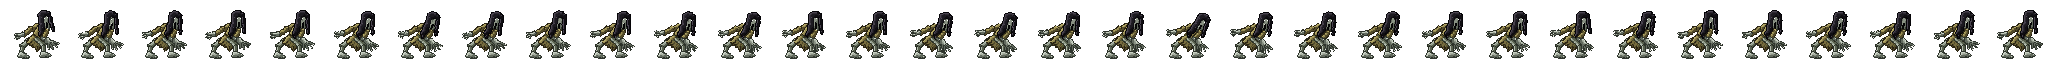
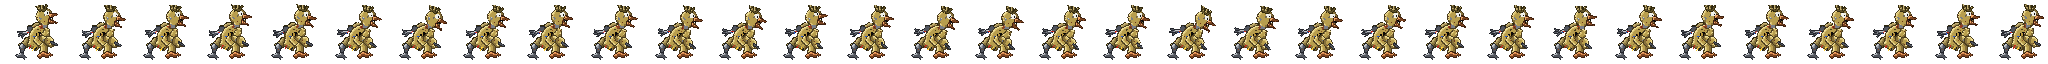
LAST SEEN: new side special PLEASE HELP ME (she clings on), and SEEN is now a scrapped canary animatronic with her inside
Claude-Session: https://claude.ai/code/session_01QrPMowW61BtpNneRMoKnVz

diff --git a/src/fighters/lastSeen.js b/src/fighters/lastSeen.js
@@ -1,13 +1,14 @@
 // LAST SEEN: a TEST FIGHTER out of analog horror - a woman who went missing, and what came back. She starts out
 // frail: light, weak, easy to launch. Her SIGHTINGS meter fills as she deals and takes damage; when it's full she
-// turns into SEEN - grey, too thin, jaw hanging open, crawling on all fours - and stays that way until she's KO'd:
-// heavy, fast, and brutal. Data only. Art: tools/sprites/last_seen_draw.py + last_seen_moves.py. Code: fighterLastSeen.js.
+// turns into SEEN - an old canary mascot animatronic, scrapped and rotting, with her inside it - and stays that way
+// until she's KO'd: heavy, fast, and brutal. Data only. Art: tools/sprites/last_seen_draw.py + last_seen_moves.py.
+// Code: fighterLastSeen.js.
 import { DEFAULT_GRAB } from './common.js';
 import { LS_MOVES } from './lsMoves.js';
 import { LS_WRONG_MOVES } from './lsWrongMoves.js';
 
 export const PAL_RAIN = { outline: 0x0e0a08, deep: 0x8a6a22, mid: 0xc8a240, light: 0xe8c86a, core: 0xfff6dc, shade: 0x2a2a30, void: 0x08080a };
-export const PAL_WRONG = { outline: 0x060508, deep: 0x2a2e28, mid: 0x5a6258, light: 0xb4bcb0, core: 0xffffff, shade: 0x141216, void: 0x020203 };
+export const PAL_WRONG = { outline: 0x24262c, deep: 0x86703a, mid: 0xb89e4e, light: 0xf0e09a, core: 0xffffff, shade: 0x2a2620, void: 0x0a0806 };
 
 const COMMON = {
   id: 'last-seen',
@@ -60,9 +61,17 @@ export const LAST_SEEN = {
     // FLYER (neutral): throws a missing poster of herself. Whoever it hits is posted MISSING: they take 20% more
     // damage for a few seconds
     neutralB: { frames: 30, spawnAt: 12, flyer: { speed: 4.6, life: 70, flutter: 5, mark: 240, hit: { dmg: 4, angle: 40, base: 2.4, growth: 1.6 } } },
-    // STUMBLE (side): a desperate lunge forward - once per jump
-    sideB: { frames: 34, landLag: 10, fx: 'thrust', dive: { from: 9, to: 22, vx: 6.6, vy: -2.4 },
-      hits: [{ from: 9, to: 20, box: [-4, -44, 42, 34], dmg: 6, angle: 40, base: 3.0, growth: 4.2 }] },
+    // PLEASE HELP ME (side): she lunges, one hand out, a long way forward - once per jump. If she catches someone
+    // she CLINGS to them, begging, and they can't get away: little hits while her SIGHTINGS fill fast, then she
+    // shoves them off. 2 + 4 x 2 + 5 = 15%, and a big chunk of her meter.
+    sideB: { frames: 34, landLag: 10, dive: { from: 8, to: 22, vx: 7.0, vy: -2.2 },
+      hits: [{ from: 8, to: 22, box: [-2, -48, 42, 36], dmg: 2, angle: 0, base: 0.4, growth: 0, stun: 30 }],
+      cling: {
+        frames: 54, every: 12,                        // how long she hangs on, and how often she squeezes
+        tick: { dmg: 2, angle: 90, base: 0.3, growth: 0, stun: 24 },
+        fill: 8,                                      // SIGHTINGS for each squeeze (on top of the damage)
+        shove: { dmg: 5, angle: 40, base: 4.4, growth: 3.6 },
+      } },
     // A FRIGHTENED JUMP (up)
     upb: { frames: 40, riseAt: 8, riseV: -14, pushX: 2.0, drift: 3.4, hits: [{ from: 8, to: 14, box: [-20, -56, 40, 58], dmg: 4, angle: 80, base: 2.6, growth: 2.4 }] },
     // HIDE (down): curls up with her arms over her head - nothing touches her for a moment
@@ -93,16 +102,16 @@ export const SEEN = {
   name: 'SEEN',
   sheets: { idle: 'ls_wrong_idle', run: 'ls_wrong_run', jump: 'ls_wrong_jump', fall: 'ls_wrong_fall', moves: 'ls_wrong_moves' },
   moveAnims: LS_WRONG_MOVES,
-  fxColor: 0xb4bcb0,
+  fxColor: 0xd8c070,
   pal: PAL_WRONG,
   wrong: true,                      // fighterLastSeen.js: its drips, smears and glitches
-  hitVfx: { shape: 'wrong', colors: [0x141216, 0x5a6258, 0xb4bcb0], n: 8 },   // its hits, whatever the costume
+  hitVfx: { shape: 'scrap', colors: [0xffd060, 0xffa030, 0xffffff], n: 8 },   // its hits, whatever the costume: sparks, fur, oil
   weight: 1.14,                     // heavy now
   takenMult: 0.85,                  // and tougher: 15% less damage taken
   walkSpeed: 3.6, runAccel: 0.8, groundFriction: 0.5,
   airSpeed: 3.2, airAccel: 0.3, airFriction: 0.04,
   jumpV: -10.4, shortHopV: -7.0, doubleJumpV: -10.0,
-  taunt: { name: 'LOOK AT ME', frames: 84, lines: ['...', 'LOOK AT ME.', 'YOU FOUND ME.'], sounds: [[40, 'glitch', 0.6, 0.5], [46, 'curse', 0.4, 0.6]] },
+  taunt: { name: 'HAPPY BIRTHDAY', frames: 84, lines: ['HAPPY BIRTHDAY!', "L-L-LET'S PLAY!", '...HELP ME.'], sounds: [[2, 'buzz', 0.4, 0.7], [40, 'glitch', 0.6, 0.5], [46, 'buzz', 0.5, 1.3]] },
   moves: {
     ...DEFAULT_GRAB,
     ...Object.fromEntries(NORMALS.map((n) => [n, wrongMove(LAST_SEEN.moves[n])])),

diff --git a/src/fighters/fighterLastSeen.js b/src/fighters/fighterLastSeen.js
@@ -42,7 +42,7 @@ export class FighterLastSeen {
     this.sheets = skinSheets(this.scene, this.def, this.skin);
     this.pal = this.def.pal;
     sfx('ko', 0.7, 0.4); sfx('bighit', 0.9, 0.5); m.shake(14, 14);
-    m.popText(this, 'SEEN', '#ff3a2a');
+    m.popText(this, 'SEEN', '#ff3a2a'); sfx('buzz', 0.7, 0.6);
     for (let i = 0; i < 24; i++) {                                    // posters torn off her and scattered
       const a = Math.random() * Math.PI * 2, sp = 2 + Math.random() * 4;
       m.particles.push({ shape: 'paper', x: this.x, y: this.y - 30, vx: Math.cos(a) * sp, vy: Math.sin(a) * sp - 1, life: 40 + Math.random() * 20, color: i % 3 ? 0xece6d4 : 0xc8281e, ang: Math.random() * 6, spin: 0.3, drag: 0.95, grav: 0.06 });
@@ -52,6 +52,28 @@ export class FighterLastSeen {
   revertLastSeen() {
     if (this.baseDef) { this.def = this.baseDef; this.sheets = this.baseSheets; this.pal = this.basePal; this.baseDef = null; }
     this.sightings = 0; this.wantTurn = false;
+  }
+
+  // ---- PLEASE HELP ME (side special): she caught someone - she clings on, begging, then shoves them off
+  startCling(t) {
+    this.clingTo = t; this.setState('cling'); this.vx = this.vy = this.lx = this.ly = 0;
+    this.match.popText(this, ['PLEASE HELP ME', 'DID YOU SEE IT?', "DON'T LEAVE ME"][Math.floor(Math.random() * 3)], '#e8c86a');
+    sfx('dodge', 0.5, 1.4);
+  }
+  st_cling() {
+    const C = this.def.moves.sideB.cling, t = this.clingTo, m = this.match;
+    if (!C || !t || !t.alive || t.state === 'respawn') { this.clingTo = null; this.setState(this.grounded ? 'idle' : 'air'); return; }
+    this.x = t.x - this.facing * 12; this.y = t.y; this.vx = this.vy = 0; this.grounded = t.grounded; this.platform = t.platform;
+    t.vx = t.vy = t.lx = t.ly = 0;
+    if (t.state === 'hitstun') t.hitstun = Math.max(t.hitstun, 6);
+    if (this.t > 1 && this.t % C.every === 0 && this.t < C.frames) {
+      m.applyHit(t, { h: C.tick, owner: this, facing: this.facing, id: 'cling' + this.slot + ':' + this.t + ':' + this.age, pillar: true }, this.x);
+      this.addSightings(C.fill); sfx('hit', 0.3, 1.3);
+    }
+    if (this.t >= C.frames) {
+      m.applyHit(t, { h: C.shove, owner: this, facing: this.facing, id: 'clings' + this.slot + ':' + this.age }, this.x);
+      this.clingTo = null; this.vx = -this.facing * 2; this.vy = -3; this.grounded = false; this.platform = null; this.setState('air');
+    }
   }
 
   // ---- I SEE IT TOO (her Limit): a scream that knocks everyone near her away, then she turns
@@ -121,7 +143,9 @@ export class FighterLastSeen {
   // ---- SEEN: dark drips falling off her, a smear behind her when she moves, now and then she skips like bad footage
   seenTick() {
     const m = this.match, R = Math.random;
-    if (this.anim % 5 === 0) m.particles.push({ x: this.x + (R() - 0.5) * 18, y: this.y - R() * 40, vx: 0, vy: 0.6, life: 20, color: R() < 0.5 ? 0x141216 : 0x2a2e28, size: 2, grav: 0.12 });
+    if (this.anim % 6 === 0) m.particles.push({ x: this.x + (R() - 0.5) * 18, y: this.y - R() * 40, vx: 0, vy: 0.6, life: 20, color: R() < 0.5 ? 0x141216 : 0x3a2a14, size: 2, grav: 0.12 });   // oil dripping out of it
+    if ((this.anim * 7) % 61 < 2) { for (let i = 0; i < 4; i++) { const a = -Math.PI / 2 + (R() - 0.5) * 2; m.particles.push({ shape: 'shard', x: this.x + (R() - 0.5) * 16, y: this.y - 20 - R() * 24, vx: Math.cos(a) * 2.5, vy: Math.sin(a) * 2.5, life: 10, color: i % 2 ? 0xffd060 : 0xffffff, drag: 0.92, grav: 0.2, ang: a }); } if (this.anim % 3 === 0) sfx('buzz', 0.12, 2); }   // a short in its wiring
+    if (this.anim % 47 === 0) m.particles.push({ shape: 'pixel2', x: this.x + (R() - 0.5) * 20, y: this.y - 30 - R() * 20, vx: (R() - 0.5), vy: 0.4, life: 40, color: 0xd8c070, grav: 0.03, drag: 0.98 });   // a tuft of fur falling off
     if (Math.abs(this.vx) > 2.5 && this.anim % 2 === 0) m.particles.push({ shape: 'smoke', x: this.x - Math.sign(this.vx) * 6, y: this.y - 14 - R() * 20, vx: 0, vy: 0, life: 16, maxLife: 16, r: 4, color: 0x141216, grav: 0 });
   }
   drawSeen(g, spr) {

diff --git a/src/scenes/MatchScene.js b/src/scenes/MatchScene.js
@@ -313,7 +313,8 @@ export class MatchScene extends Phaser.Scene {
     if (t.def.beat) t.dropStreak();
     const dmg = Math.max(1, Math.round((h.dmg || 0) * (owner ? owner.dmgMult : 1) * t.dmgTakenMult * (beat ? beat.dmg : 1)));
     if (beat) owner.beatLanded(t, hb);
-    if (owner && !hb.projectile && owner.state === 'attack' && owner.move && owner.move.dive && owner.move.dive.bounce) owner.diveBounce = true;   // NU's Stage Dive: bounce off them
+    if (owner && !hb.projectile && owner.state === 'attack' && owner.move && owner.move.dive && owner.move.dive.bounce) owner.diveBounce = true;
+    if (owner && !hb.projectile && owner.state === 'attack' && owner.move && owner.move.cling && t.alive) owner.startCling(t);   // LAST SEEN: she clings on   // NU's Stage Dive: bounce off them
     let kbPct;
     if (this.mode === 'stamina') { t.hp -= dmg; kbPct = 40 + 50 * (1 - Math.max(0, t.hp) / t.maxHp); }
     else { t.percent = Math.min(999, t.percent + dmg); kbPct = t.percent; }
@@ -532,6 +533,13 @@ export class MatchScene extends Phaser.Scene {
         add({ shape: 'flash', x, y, vx: 0, vy: 0, life: 10, maxLife: 10, r: 9 + kb, color: 0x9aff6a, grav: 0 });
         for (let i = 0; i < n; i++) { const a = -Math.PI / 2 + (R() - 0.5) * 2.6, sp = 1.8 + R() * 3; add({ shape: 'bone', x, y, vx: Math.cos(a) * sp + dir * 0.6, vy: Math.sin(a) * sp, life: 30 + R() * 14, color: col(i), ang: R() * 6, spin: (R() - 0.5) * 0.6, drag: 0.96, grav: 0.14 }); }
         if (dmg >= 9 || kb > 7) add({ shape: 'skull', x, y: y - 8, vx: dir * 0.4, vy: -1.2, life: 34, color: 0xe8ffd8, grav: -0.02, drag: 0.96 });
+        break;
+      case 'scrap':                                   // SEEN (the animatronic): sparks, tufts of fur and a splash of oil
+        add({ shape: 'flash', x, y, vx: 0, vy: 0, life: 6, maxLife: 6, r: 7 + kb, color: 0xffd060, grav: 0 });
+        for (let i = 0; i < n; i++) { const a = -Math.PI / 2 + (R() - 0.5) * 3, sp = 2.5 + R() * 4; add({ shape: 'shard', x, y, vx: Math.cos(a) * sp + dir, vy: Math.sin(a) * sp, life: 10 + R() * 12, color: col(i), drag: 0.94, grav: 0.25, ang: a }); }
+        for (let i = 0; i < 4; i++) add({ shape: 'pixel2', x: x + (R() - 0.5) * 10, y, vx: (R() - 0.5) * 2 + dir, vy: -1 - R(), life: 30, color: R() < 0.5 ? 0xd8c070 : 0xb89e4e, drag: 0.95, grav: 0.05 });
+        for (let i = 0; i < 3; i++) add({ shape: 'ink', x, y, vx: dir * (1 + R() * 2), vy: -R() * 2, life: 20, color: 0x141008, r: 2 + R() * 2, drag: 0.9, grav: 0.2 });
+        if (dmg >= 12 || kb > 7) this.shake(4, 4);
         break;
       case 'wrong':                                   // SEEN: black ink splats, torn poster scraps and static
         for (let i = 0; i < n; i++) { const a = R() * Math.PI * 2, sp = 1.5 + R() * 3.5; add({ shape: 'ink', x, y, vx: Math.cos(a) * sp + dir, vy: Math.sin(a) * sp - 0.5, life: 20 + R() * 14, color: col(i), r: 2 + R() * 3, drag: 0.9, grav: 0.15 }); }

diff --git a/src/fighters/roster.js b/src/fighters/roster.js
@@ -37,7 +37,7 @@ export const TEST_ROSTER = [
   { id: 'last-seen', name: 'LAST SEEN', def: LAST_SEEN, tag: 'PROTOTYPE 04',
     notes: 'SHE WENT MISSING. SOMETHING CAME BACK.\nSTARTS FRAIL: LIGHT, WEAK, EASY TO LAUNCH.\n\n'
       + 'SIGHTINGS (THE EYES OVER HER HEAD) FILL AS SHE\nDEALS AND TAKES DAMAGE. ALL OPEN: SHE TURNS\nINTO SEEN UNTIL KO - HEAVY, FAST, BRUTAL.\n\n'
-      + 'K      FLYER / WAIL\nSIDE K STUMBLE / SKITTER\nUP K   JUMP / CLIMB\nDOWN K HIDE / DRAG\n\n'
+      + 'K      FLYER / WAIL\nSIDE K PLEASE HELP ME (CLING ON) / SKITTER\nUP K   JUMP / CLIMB\nDOWN K HIDE / DRAG\n\n'
       + 'LIMIT  I SEE IT TOO - TURN NOW\n       DO NOT APPROACH (AS SEEN) - 55%' },
 ];
 

diff --git a/src/fighters/lsMoves.js b/src/fighters/lsMoves.js
@@ -27,9 +27,10 @@ export const LS_MOVES = {
    "ledge": [560, 12, 2, 1],
    "neutralB": [572, 30, 1],
    "sideB": [602, 34, 1],
-   "upb": [636, 40, 1],
-   "downB": [676, 34, 1],
-   "limit": [710, 40, 1],
-   "turning": [750, 35, 2],
-   "taunt": [785, 84, 1],
+   "cling": [636, 12, 2, 1],
+   "upb": [648, 40, 1],
+   "downB": [688, 34, 1],
+   "limit": [722, 40, 1],
+   "turning": [762, 35, 2],
+   "taunt": [797, 84, 1],
 };

diff --git a/tools/sprites/last_seen_draw.py b/tools/sprites/last_seen_draw.py
@@ -7,9 +7,10 @@ creases and hair strands. Two looks - set_style():
 
   calm   LAST SEEN: a slight, timid woman in a faded mustard raincoat (belted, buttoned, down past the knee), an
          auburn bob, pale and tired, dark circles, red rain boots; a torn missing poster of herself in one hand.
-  wrong  SEEN: what she turns into. Grey wet skin, too-thin limbs ending in long claws, bare feet with long toes,
-         black wet hair hanging round the face, white pinprick eyes and a jaw that hangs far too low; the
-         raincoat faded and torn to rags.
+  wrong  SEEN: what she turns into - an old restaurant mascot animatronic, a canary, scrapped and rotting, with her
+         inside it. Faded yellow fur torn away in patches over a rusted metal endoskeleton, wires hanging out, one
+         plastic eye, the beak hanging open - and through the gaps, her: her eye in the beak, her auburn hair at the
+         neck, her mustard raincoat through the hole in its chest. (draw_mascot())
 
   python3 tools/sprites/last_seen_draw.py preview.png
 """
@@ -72,7 +73,102 @@ def limb(d, a, b, w, col):
     r = w / 2 - 0.5
     for (x, y) in (a, b): d.ellipse([x - r, y - r, x + r, y + r], fill=col)
 
+FUR = (0xf0e09a, 0xd8c070, 0xb89e4e, 0x86703a, 0x4a3c1e)          # faded yellow fur
+FURD = (0xc8b478, 0xa89458, 0x86743e, 0x5e5028, 0x30280e)         # the far side, dirtier
+METAL = (0xc8ccd0, 0xa0a4aa, 0x7a7e86, 0x52565e, 0x24262c)        # the endoskeleton
+BEAK = (0xf0a868, 0xd8844a, 0xb06636, 0x7a4422, 0x3e200e)         # orange plastic, faded
+RUST = (0x8a4a22, 0x6a3418)
+WIRES = (0xc8281e, 0x2a5ad8, 0xffd23a)
+
+def rod(d, a, b, col, w=2):
+    d.line([a, b], fill=col, width=w)
+
+def draw_mascot():
+    """SEEN: the scrapped canary animatronic, with her inside it."""
+    P = {}
+    rng = np.random.RandomState(5)
+    def grime(a, n=6):                                                 # rust and stains scattered over a part
+        ys, xs = np.nonzero(a[..., 3] > 0)
+        for i in rng.choice(len(xs), min(n, len(xs)), replace=False):
+            if tuple(a[ys[i], xs[i], :3]) not in (tuple(hx(FUR[4])[:3]), tuple(hx(METAL[4])[:3])): a[ys[i], xs[i]] = hx(RUST[i % 2])
+    # ---------------- legs: back leg stripped to the metal, front leg still furred
+    im = blank(); d = ImageDraw.Draw(im); limb(d, (28, 40), (25, 48), 6, hx(FURD[2])); a = shade(im, FURD); grime(a, 3); P['bthigh'] = a
+    im = blank(); d = ImageDraw.Draw(im); rod(d, (25, 48), (24, 55), hx(METAL[2]), 2); d.ellipse([23, 46, 27, 50], fill=hx(METAL[2]))
+    d.rectangle([24, 50, 26, 52], fill=hx(METAL[3])); a = shade(im, METAL); put(a, [(25, 51)], RUST[0]); P['bshin'] = a
+    im = blank(); d = ImageDraw.Draw(im)
+    for (tx, ty) in ((19, 58), (23, 58), (27, 58)): d.line([(24, 55), (tx, ty)], fill=hx(METAL[2]), width=2)
+    a = shade(im, METAL); P['bshoe'] = a
+    im = blank(); d = ImageDraw.Draw(im); limb(d, (37, 40), (40, 48), 7, hx(FUR[2])); a = shade(im, FUR)
+    put(a, [(39, 45), (40, 46), (41, 46), (40, 47)], 0x1a1a1a); put(a, [(40, 46)], METAL[1]); grime(a, 3); P['fthigh'] = a   # a tear at the knee: metal underneath
+    im = blank(); d = ImageDraw.Draw(im); limb(d, (40, 48), (40, 54), 6, hx(FUR[2])); a = shade(im, FUR)
+    for y in (53, 54): put(a, [(39, y), (40, y), (41, y)], METAL[2])                                                       # torn away at the ankle
+    P['fshin'] = a
+    im = blank(); d = ImageDraw.Draw(im)
+    for (tx, ty) in ((44, 58), (47, 57), (36, 58)): limb(d, (40, 55), (tx, ty), 3, hx(BEAK[2]))                             # big three-toed bird foot
+    a = shade(im, BEAK); grime(a, 2); P['fshoe'] = a
+    # ---------------- back arm: the fur hanging off it, the forearm bare metal with a claw hand
+    im = blank(); d = ImageDraw.Draw(im); limb(d, (27, 24), (25, 31), 6, hx(FURD[2])); a = shade(im, FURD); grime(a, 2); P['bupper'] = a
+    im = blank(); d = ImageDraw.Draw(im); rod(d, (25, 31), (26, 38), hx(METAL[2]), 2); d.ellipse([23, 29, 27, 33], fill=hx(METAL[3]))
+    for (tx, ty) in ((23, 43), (26, 44), (29, 42)): d.line([(26, 38), (tx, ty)], fill=hx(METAL[2]), width=1)
+    a = shade(im, METAL); put(a, [(27, 34), (27, 35)], WIRES[0]); put(a, [(28, 36)], WIRES[1]); P['bfore'] = a
+    P['poster'] = np.array(blank())
+    # ---------------- body: a round furred belly, a bow tie, stitched seams - and a hole torn in the chest: her inside
+    im = blank(); d = ImageDraw.Draw(im)
+    d.ellipse([25, 20, 41, 44], fill=hx(FUR[2]))
+    d.rectangle([28, 40, 38, 45], fill=hx(FUR[2]))
+    a = shade(im, FUR)
+    for (x, y) in [(29, 23), (30, 22), (31, 23), (32, 22), (33, 23)]: put(a, [(x, y)], 0xc8281e)                          # a faded bow tie
+    put(a, [(31, 22), (31, 23)], 0x8a1a14)
+    hole = [(x, y) for y in range(27, 35) for x in range(30, 37) if (x - 33) ** 2 / 9 + (y - 31) ** 2 / 14 <= 1]
+    put(a, hole, 0x0a0806)                                                                                                   # the hole...
+    put(a, [(31, 30), (32, 30), (31, 31), (32, 31), (32, 32), (33, 32), (33, 33)], 0xb8923a)                               # ...her raincoat inside it
+    put(a, [(34, 29), (35, 30), (35, 31)], 0xd9ae98)                                                                        # ...and her pale hand, pressed to the gap
+    put(a, [(36, 32), (36, 33), (37, 34)], WIRES[0]); put(a, [(30, 34), (29, 35)], WIRES[1])                               # wires spilling out
+    for (x, y0, c) in [(31, 44, WIRES[0]), (35, 44, WIRES[2]), (37, 43, 0x1a1a1a)]:                                        # more dangling from under it
+        for y in range(y0, y0 + 4): a[y, x] = hx(c)
+    for (x, y) in [(29, 27), (30, 26), (37, 28), (36, 35), (30, 36)]: put(a, [(x, y)], FUR[4])                             # torn edges
+    for y in range(36, 44, 2): put(a, [(33, y)], FUR[3])                                                                    # a stitched seam
+    grime(a, 8)
+    P['torso'] = a
+    # ---------------- head: a big round canary head, one plastic eye, the beak hanging open - her eye inside
+    im = blank(); d = ImageDraw.Draw(im)
+    d.rectangle([31, 16, 35, 22], fill=hx(METAL[2]))                                                                        # the neck: bare metal
+    d.ellipse([27, 3, 42, 19], fill=hx(FUR[2]))
+    a = shade(im, FUR)
+    im2 = blank(); d2 = ImageDraw.Draw(im2)
+    d2.polygon([(40, 9), (47, 11), (40, 13)], fill=hx(BEAK[2]))                                                             # upper beak
+    d2.polygon([(39, 15), (45, 19), (39, 18)], fill=hx(BEAK[2]))                                                            # lower beak, hanging open
+    bk = shade(im2, BEAK); m = bk[..., 3] > 0; a[m] = bk[m]
+    put(a, [(40, 13), (41, 13), (40, 14), (41, 14), (42, 14), (40, 15)], 0x0a0806)                                          # the gap...
+    put(a, [(41, 14)], 0xf4f2ec); put(a, [(40, 14)], 0x3a2a2a)                                                               # ...and her eye in it, looking out
+    for (x, y) in [(x, y) for y in range(6, 11) for x in range(35, 40) if (x - 37) ** 2 + (y - 8) ** 2 <= 5]: put(a, [(x, y)], 0xf0f0e8)   # its big plastic eye
+    put(a, [(35, 6), (39, 6), (35, 10), (39, 10)], FUR[3])
+    put(a, [(38, 9), (38, 8)], 0x101010); put(a, [(36, 7)], 0xffffff); put(a, [(35, 9), (34, 10), (34, 11)], 0x6a6458)    # pupil, drooping; a crack
+    for (x, y) in [(29, 12), (30, 13), (30, 14), (31, 13)]: put(a, [(x, y)], METAL[2])                                      # fur torn off: the metal skull
+    put(a, [(30, 12)], METAL[0])
+    grime(a, 6)
+    P['head'] = a
+    # ---------------- 'hair': a matted crest of feathers - and her auburn hair hanging out at the neck
+    im = blank(); d = ImageDraw.Draw(im)
+    for (x0, x1, y1) in [(32, 29, 0), (34, 34, 0), (36, 38, 1)]: d.line([(x0, 5), (x1, y1)], fill=hx(FURD[2]), width=2)
+    a = shade(im, FURD)
+    for (x, y) in [(30, 19), (30, 20), (30, 21), (29, 22), (31, 20), (31, 21), (31, 22), (30, 23)]: a[y, x] = hx(0x8a4426)  # her hair
+    a[20, 31] = hx(0xb0603a); a[19, 30] = hx(0x5e2a16)
+    P['hair'] = a
+    # ---------------- front arm: furred, a big mascot mitten with a finger missing
+    im = blank(); d = ImageDraw.Draw(im); limb(d, (38, 24), (42, 31), 6, hx(FUR[2])); a = shade(im, FUR); grime(a, 2); P['fupper'] = a
+    im = blank(); d = ImageDraw.Draw(im); limb(d, (42, 31), (44, 27), 5, hx(FUR[2])); a = shade(im, FUR); put(a, [(43, 29), (44, 30)], METAL[2]); P['ffore'] = a
+    im = blank(); d = ImageDraw.Draw(im)
+    d.ellipse([41, 21, 48, 28], fill=hx(FUR[2]))
+    for (tx, ty) in ((49, 19), (50, 23)): limb(d, (45, 23), (tx, ty), 2, hx(FUR[2]))
+    a = shade(im, FUR); im2 = blank(); d2 = ImageDraw.Draw(im2); d2.line([(46, 22), (49, 17)], fill=hx(METAL[2]), width=1)   # a bare metal finger
+    mt = shade(im2, METAL); m = mt[..., 3] > 0; a[m] = mt[m]
+    grime(a, 2)
+    P['ffist'] = a
+    return P
+
 def draw_parts():
+    if STYLE == 'wrong': return draw_mascot()
     W = STYLE == 'wrong'
     C = WRONG if W else CALM
     K, T, B, CO, HR = C['skin'], C['tight'], C['boot'], C['coat'], C['hair']

diff --git a/tools/sprites/last_seen_moves.py b/tools/sprites/last_seen_moves.py
@@ -66,8 +66,12 @@ CALM = borrowed()
 mv(CALM, 'neutralB', 30, [k(0, REST), k(8, P(torso=(-12, -1, 0), head=(8, 0, 0), fupper=(-160, 0, 0), ffore=(-30, 0, 0)), 'out'),
                           k(12, P(torso=(18, 3, 1), head=(-10, 1, 0), fupper=(-70, 0, 0), ffore=(20, 0, 0), root=(0, 4, 0), **STANCE), 'snap'),
                           k(20, P(torso=(14, 2, 1), fupper=(-60, 0, 0), ffore=(30, 0, 0), **STANCE), 'linear'), k(30, REST, 'back')], smear=('ffore', 'ffist'))
-LUNGE = P(torso=(70, 6, 4), head=(-10, 0, 0), hair=(-20, 0, 0), fupper=(-150, 0, 0), ffore=(10, 0, 0), bupper=(-160, 0, 0), bfore=(10, 0, 0), root=(0, 0, -6), **legs(-50, 30, -60, 40))
-mv(CALM, 'sideB', 34, [k(0, REST), k(6, P(**DEEP, torso=(14, 0, 2), head=(10, 0, 0)), 'out'), k(9, LUNGE, 'snap'), k(22, mix(LUNGE, torso=(76, 6, 4)), 'linear'), k(34, REST, 'inout')])
+# PLEASE HELP ME: a desperate lunge, one hand reaching out ahead of her
+REACH = P(torso=(56, 5, 3), head=(-30, 0, 0), hair=(-20, 0, 0), fupper=(-60, 0, 0), ffore=(120, 0, 0), ffist=(-10, 0, 0), bupper=(74, 0, 0), bfore=(38, 0, 0), root=(0, 0, -4), **legs(-40, 30, -50, 40))
+mv(CALM, 'sideB', 34, [k(0, REST), k(6, P(**DEEP, torso=(14, 0, 2), head=(10, 0, 0), fupper=(20, 0, 0)), 'out'), k(9, REACH, 'snap'), k(22, mix(REACH, torso=(60, 5, 3), ffist=(-20, 0, 0)), 'linear'), k(34, REST, 'inout')])
+# clinging on: both arms wrapped round them, face pressed in, shaking
+HOLD = P(torso=(30, 4, 1), head=(-14, 2, 0), fupper=(-50, 0, 0), ffore=(110, 0, 0), bupper=(-100, 0, 0), bfore=(32, 0, 0), root=(0, 2, 0), **legs(18, -10, -18, 14, 0, -6))
+mv(CALM, 'cling', 24, [k(0, HOLD), k(6, mix(HOLD, head=(-6, 2, 0), torso=(34, 4, 1)), 'snap'), k(12, HOLD, 'inout'), k(18, mix(HOLD, head=(-20, 2, 0), torso=(28, 4, 1)), 'snap'), k(24, HOLD, 'inout')], loop=True, step=2)
 mv(CALM, 'upb', 40, [k(0, P(**DEEP)), k(8, P(fupper=(-170, 0, -1), ffore=(10, 0, 0), bupper=(-170, 0, -1), head=(-20, 0, 0), hair=(20, 0, 0), **TUCK), 'snap'),
                      k(28, P(fupper=(-150, 0, 0), bupper=(-150, 0, 0), head=(-14, 0, 0), **TUCK), 'linear'), k(40, P(fupper=(-120, 0, 0), bupper=(-130, 0, 0), **legs(20, 14, -14, 26)), 'inout')])
 HIDE = P(torso=(40, 3, 6), head=(30, 1, 2), fupper=(-150, 0, 0), ffore=(-70, 0, 0), bupper=(-150, 0, 0), bfore=(-60, 0, 0), root=(0, 0, 0, 1.1, 0.82), **legs(56, -80, -24, 44, 18, -18))

diff --git a/CLAUDE.md b/CLAUDE.md
@@ -67,8 +67,9 @@ Owner: Mason (artist; does the sprites and design). Live build: https://kobrabro
   `menuSheets` (drawn with the head).
   **LAST SEEN** (`last-seen`, keys `ls_*` and `ls_wrong_*`, art `tools/sprites/last_seen_draw.py` + `last_seen_moves.py`, code
   `fighterLastSeen.js`, def `lastSeen.js`): an original analog-horror transformation fighter - a frail missing woman whose SIGHTINGS
-  meter (`def.sightings`, eyes over her head) fills from damage dealt/taken; full -> state `turning` -> she becomes SEEN (def
-  `SEEN`, `wrongDef`: heavy, `takenMult`, stronger normals via `wrongMove`) until KO'd. Limits: `turn` (I SEE IT TOO) and
+  meter (`def.sightings`, eyes over her head) fills from damage dealt/taken; full -> state `turning` -> she becomes SEEN, a scrapped canary
+  mascot animatronic with her inside (`draw_mascot()`; def `SEEN`, `wrongDef`: heavy, `takenMult`, stronger normals via `wrongMove`) until
+  KO'd. Her side-B PLEASE HELP ME clings to whoever it catches (state `cling`, `sideB.cling`). Limits: `turn` (I SEE IT TOO) and
   `approach` (DO NOT APPROACH, 55%). DEAD AIR (`deadAir.js`, `fighterDeadAir.js`, `dead_air_*.py`) is an unfinished
   analog-horror fighter, not wired into the game.
 - Every fighter has a taunt (`def.taunt`, 1 key / stick click); training hotkeys are 2–7.
